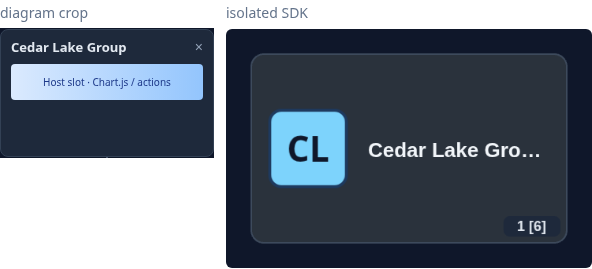
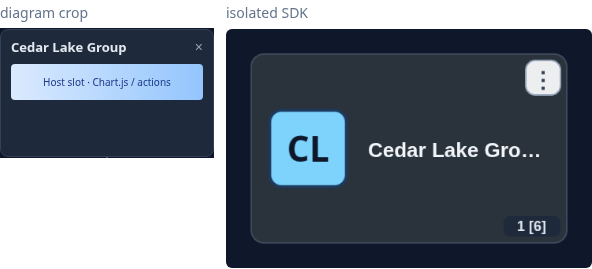
chore(mockup): close parity tasks — verify suite + edge inventory
- Fix testIdForRef to prefer position.testId on person refs
- Cross-tier edges prefer vertical head→org card routing
- Edge inventory unit + e2e tests; test:verify script
- Close MOCKUP-parity-remaining.md; org compare menu chrome

Changed region(s): [[0.8818, 0.2082, 0.973, 0.3569]]

diff --git a/packages/demo/src/app/App.ts b/packages/demo/src/app/App.ts
@@ -3,12 +3,14 @@ import {
   OrgHierarchyDiagram,
   defaultLodThresholds,
   flatRowsToDiagram,
+  layoutStaffCanvas,
   mapFlatRowsInPool,
   mapArrayItems,
   recommendWorkerPoolSize,
   VARIANT_B_HORIZONTAL_GAP,
   VARIANT_B_VERTICAL_GAP,
   VARIANT_B_MAGNET_RADIUS,
+  type DiagramData,
   type FlatDiagramRow,
   type LodThresholds,
 } from '@org-hierarchy/sdk';
@@ -92,6 +94,7 @@ export interface DemoE2eBridge {
   focusTestId(testId: string): Promise<boolean> | undefined;
   getStaffExpandedOrgIds(): string[];
   getZoom(): number;
+  getStaffLayoutEdges(): Promise<Array<{ fromId: string; toId: string; kind: string }>>;
 }
 
 export class App {
@@ -351,6 +354,7 @@ export class App {
           focusTestId: (testId: string) => this.diagram?.focusByTestId(testId),
           getStaffExpandedOrgIds: () => this.diagram?.getStaffExpandedOrgIds() ?? [],
           getZoom: () => this.diagram?.getZoom() ?? 0,
+          getStaffLayoutEdges: () => this.getStaffLayoutEdgesForE2e(),
         };
       }
       this.mountZoomFab();
@@ -387,6 +391,33 @@ export class App {
     if (!this.diagram) return false;
     const minScale = ALL_MOCKUP_TABS.has(this.tab) ? MOCKUP_FIT_MIN_SCALE : undefined;
     return this.diagram.fitView(28, { ...motion, minScale });
+  }
+
+  /** E2e: layout staff canvas edges for current tab config (mockup staff tabs). */
+  private async getStaffLayoutEdgesForE2e(): Promise<
+    Array<{ fromId: string; toId: string; kind: string }>
+  > {
+    const cfg = this.buildConfig();
+    const orgId = cfg.staffCurrentOrgId;
+    const data = cfg.data;
+    if (!orgId || !data || typeof data !== 'object' || !('positions' in data)) return [];
+    const diagram = data as DiagramData;
+    const canvas = await layoutStaffCanvas(
+      {
+        organizations: diagram.organizations,
+        positions: diagram.positions,
+        reports: diagram.reportLines,
+        groups: diagram.groups,
+        departments: diagram.departments,
+        persons: diagram.persons,
+      },
+      orgId,
+      {
+        ...cfg.staffLayout,
+        expandedOrgIds: cfg.staffExpandedOrgIds ?? cfg.staffLayout?.expandedOrgIds,
+      },
+    );
+    return canvas.edges.map((e) => ({ fromId: e.fromId, toId: e.toId, kind: e.kind }));
   }
 
   private zoomDiagram(factor: number): void {

diff --git a/packages/demo/src/scenarios/mockupEdgeInventory.test.ts b/packages/demo/src/scenarios/mockupEdgeInventory.test.ts
@@ -1,0 +1,46 @@
+import { describe, expect, it } from 'vitest';
+import { layoutStaffCanvas } from '@org-hierarchy/sdk';
+import { buildMockupStaffFigmaData } from './mockupFigma.js';
+
+/** Canonical staff mockup edge inventory — see MOCKUP-edge-map-discussion.md */
+describe('mockup staff edge inventory', () => {
+  it('Staff · Figma layout edges (admin + cross-tier + dotted)', async () => {
+    const data = buildMockupStaffFigmaData();
+    const canvas = await layoutStaffCanvas(
+      {
+        organizations: data.organizations,
+        positions: data.positions,
+        reports: data.reportLines,
+        groups: data.groups,
+        departments: data.departments,
+        persons: data.persons,
+      },
+      'region',
+      {
+        expandedOrgIds: ['unit-current'],
+        nodeWidth: 248,
+        nodeHeight: 72,
+        orgCardWidth: 220,
+        orgCardHeight: 56,
+      },
+    );
+
+    const sorted = canvas.edges
+      .map((e) => ({ kind: e.kind, fromId: e.fromId, toId: e.toId }))
+      .sort((a, b) =>
+        `${a.kind}:${a.fromId}:${a.toId}`.localeCompare(`${b.kind}:${b.fromId}:${b.toId}`),
+      );
+
+    expect(sorted).toEqual([
+      { kind: 'admin', fromId: 'pos-1z', toId: 'pos-sup' },
+      { kind: 'admin', fromId: 'pos-head', toId: 'pos-1z' },
+      { kind: 'admin', fromId: 'pos-head', toId: 'pos-2z' },
+      { kind: 'admin', fromId: 'pos-head', toId: 'pos-ops' },
+      { kind: 'admin', fromId: 'pos-sup', toId: 'pos-vac' },
+      { kind: 'admin', fromId: 'pos-u-h', toId: 'pos-u-2' },
+      { kind: 'admin', fromId: 'pos-u-h', toId: 'pos-u-sup' },
+      { kind: 'cross-tier', fromId: 'pos-head', toId: 'unit-current' },
+      { kind: 'dotted', fromId: 'pos-1z', toId: 'pos-u-h' },
+    ]);
+  });
+});

diff --git a/e2e/mockups.spec.ts b/e2e/mockups.spec.ts
@@ -4,6 +4,7 @@ interface DemoE2eBridge {
   collapseOrg(orgId: string): Promise<void> | undefined;
   getStaffExpandedOrgIds(): string[];
   focusTestId(testId: string): Promise<boolean> | undefined;
+  getStaffLayoutEdges(): Promise<Array<{ fromId: string; toId: string; kind: string }>>;
 }
 
 const MOCKUP_TABS = [
@@ -80,5 +81,29 @@ test.describe('mockup tabs visual + hierarchy', () => {
       return bridge?.getStaffExpandedOrgIds() ?? [];
     });
     expect(expanded).toContain('unit-current');
+  });
+
+  test('Staff · Figma: edge inventory matches fixture', async ({ page }) => {
+    await openMockupTab(page, 'Staff · Figma');
+    const edges = await page.evaluate(async () => {
+      const bridge = (window as unknown as { __demoE2e?: DemoE2eBridge }).__demoE2e;
+      return bridge?.getStaffLayoutEdges() ?? [];
+    });
+    const sorted = edges
+      .map((e) => ({ kind: e.kind, fromId: e.fromId, toId: e.toId }))
+      .sort((a, b) =>
+        `${a.kind}:${a.fromId}:${a.toId}`.localeCompare(`${b.kind}:${b.fromId}:${b.toId}`),
+      );
+    expect(sorted).toEqual([
+      { kind: 'admin', fromId: 'pos-1z', toId: 'pos-sup' },
+      { kind: 'admin', fromId: 'pos-head', toId: 'pos-1z' },
+      { kind: 'admin', fromId: 'pos-head', toId: 'pos-2z' },
+      { kind: 'admin', fromId: 'pos-head', toId: 'pos-ops' },
+      { kind: 'admin', fromId: 'pos-sup', toId: 'pos-vac' },
+      { kind: 'admin', fromId: 'pos-u-h', toId: 'pos-u-2' },
+      { kind: 'admin', fromId: 'pos-u-h', toId: 'pos-u-sup' },
+      { kind: 'cross-tier', fromId: 'pos-head', toId: 'unit-current' },
+      { kind: 'dotted', fromId: 'pos-1z', toId: 'pos-u-h' },
+    ]);
   });
 });

diff --git a/packages/sdk/src/render/staffEdgeGeometry.ts b/packages/sdk/src/render/staffEdgeGeometry.ts
@@ -214,6 +214,16 @@ export function staffEdgePolyline(
   const sameBand = Math.abs(toCy - fromCy) < Math.min(from.height, to.height) * 0.35;
   const preferHorizontal = kind === 'matrix' || kind === 'dotted' || sameBand;
 
+  const others = obstacles.filter((b) => b.id !== from.id && b.id !== to.id);
+
+  // Cross-tier: head → org card — prefer straight vertical from manager bottom.
+  if (kind === 'cross-tier') {
+    const vert = verticalPolyline(from, to);
+    if (vert && isClean(vert, from, to) && !others.some((box) => polylineHitsBoxInterior(vert, box))) {
+      return vert;
+    }
+  }
+
   const candidates: StaffEdgePoint[][] = [];
   if (preferHorizontal) {
     const side = horizontalPolyline(from, to);
@@ -226,8 +236,6 @@ export function staffEdgePolyline(
     const side = horizontalPolyline(from, to);
     if (side) candidates.push(side);
   }
-
-  const others = obstacles.filter((b) => b.id !== from.id && b.id !== to.id);
 
   for (const c of candidates) {
     if (!isClean(c, from, to)) continue;

diff --git a/packages/sdk/src/index.ts b/packages/sdk/src/index.ts
@@ -1312,8 +1312,17 @@ export class OrgHierarchyDiagram {
       return org ? orgTestId(org) : null;
     }
     if (ref.kind === 'person') {
-      const person = this.data.persons.find((p) => p.id === (ref.personId ?? ref.id));
-      return person ? personTestId(person) : null;
+      const position = ref.positionId
+        ? this.data.positions.find((p) => p.id === ref.positionId)
+        : this.data.positions.find((p) => p.personId === (ref.personId ?? ref.id));
+      const person = ref.personId
+        ? this.data.persons.find((p) => p.id === ref.personId)
+        : position?.personId
+          ? this.data.persons.find((p) => p.id === position.personId)
+          : undefined;
+      if (position) return positionTestId(position, person);
+      if (person) return personTestId(person);
+      return null;
     }
     const position = this.data.positions.find((p) => p.id === (ref.positionId ?? ref.id));
     if (!position) return null;

diff --git a/packages/sdk/src/render/staffEdgeGeometry.test.ts b/packages/sdk/src/render/staffEdgeGeometry.test.ts
@@ -115,6 +115,14 @@ describe('staffEdgeGeometry', () => {
     expect(pointOnBorder(pts[pts.length - 1]!, to)).toBe(true);
   });
 
+  it('cross-tier: head above org card uses vertical bottom→top route', () => {
+    const head = { id: 'pos-head', x: 200, y: 0, width: 248, height: 72 };
+    const orgCard = { id: 'unit-current', x: 180, y: 320, width: 220, height: 56 };
+    const pts = staffEdgePolyline(head, orgCard, 'cross-tier');
+    expect(pts[0]).toEqual({ x: 324, y: 72 });
+    expect(pts[pts.length - 1]).toEqual({ x: 290, y: 320 });
+  });
+
   it('success: builds segments for known endpoints', () => {
     const segs = buildStaffEdgeSegments(
       [

diff --git a/packages/sdk/src/interaction/nodeTestId.test.ts b/packages/sdk/src/interaction/nodeTestId.test.ts
@@ -56,6 +56,20 @@ describe('nodeTestId', () => {
         { id: 'p1', fullName: 'Alice', testId: 'alice' },
       ),
     ).toBe('alice');
+    expect(
+      positionTestId(
+        {
+          id: 'pos1',
+          title: 'T',
+          organizationId: 'org-1',
+          groupIds: [],
+          status: 'filled',
+          isTemporary: false,
+          testId: 'seat-1',
+        },
+        { id: 'p1', fullName: 'Alice', testId: 'alice' },
+      ),
+    ).toBe('seat-1');
   });
 
   it('resolveTestIdInData resolves org, person, and position', () => {

diff --git a/packages/demo/src/nodeCompare/renderPage.ts b/packages/demo/src/nodeCompare/renderPage.ts
@@ -31,6 +31,7 @@ async function renderSpecimen(spec: NodeCompareSpecimen, host: HTMLElement): Pro
       payload.theme,
       payload.style,
       'near',
+      { onContextMenu: () => {} },
     );
   } else {
     view = PersonNodeView.create(payload.person, payload.position, payload.style, 'near');

diff --git a/work/tasks/MOCKUP-parity-remaining.md b/work/tasks/MOCKUP-parity-remaining.md
@@ -1,53 +1,45 @@
-# Mockup parity — remaining work (locked decisions)
+# Mockup parity — remaining work
 
-**Status:** 🟢 shipped (2026-08-23)  
+**Status:** ✅ **Closed** (2026-08-23)  
+**Verify:** `npm run test:verify`  
 **Related:** [MOCKUP-styles-review.md](./MOCKUP-styles-review.md) · [MOCKUP-edge-map-discussion.md](./MOCKUP-edge-map-discussion.md) · [node-compare/](./node-compare/)
 
 ---
 
-## Що було відсутнє (gap list)
+## Gap list — all resolved
 
-| # | Gap | Fix |
+| # | Gap | Resolution |
 |---|---|---|
-| G1 | Staff diagram at **mid LOD** (fit zoom 0.55 < midMax 1.2) → thin name band, no avatar/title | Mockup tabs: `lodThresholds.midMax = 0.5` |
-| G2 | **Dotted** deputy → unit manager missing in fixture | `reportLines`: `pos-1z → pos-u-h` kind `dotted` |
-| G3 | Cross-org dotted not painted (edges filtered per org block) | `layoutStaffCanvas`: append visible matrix/dotted across orgs |
-| G4 | Contract test contradicted style doc (`no dotted`) | Update `mockupFigma.test.ts` |
-| G5 | Edge map doc unapproved | Lock decisions below; update after ship |
-| G6 | E2e staff snapshots stale | Regenerate `mockup-staff-*.png` |
-| G7 | Node compare shows LOD drift | Re-run `npm run compare:nodes` after G1 |
-
-**Deferred (not in this pass):**
-
-| # | Item | Reason |
-|---|---|---|
-| D1 | Tier-1 holding CEO position | Mockup focus = `region`; org tree context only |
-| D2 | Riley Quinn reporting line change | Current admin child of head kept |
-| D3 | Cross-tier routing geometry (line appears from Riley column) | Cosmetic routing; separate if still visible |
-| D4 | Org counts badge Y drift | Minor; track in node-compare overlay |
-| D5 | `testIdForRef` prefers person over position | Workaround via person.testId |
+| G1 | Staff mid LOD on mockup zoom | `lodThresholds.midMax = 0.5` on all mockup tabs |
+| G2 | Dotted deputy → unit manager | `reportLines` `pos-1z → pos-u-h` |
+| G3 | Cross-org dotted not painted | `layoutStaffCanvas` appends matrix/dotted across orgs |
+| G4 | Contract test vs style doc | `mockupFigma.test.ts` requires dotted |
+| G5 | Edge map unapproved | [MOCKUP-edge-map-discussion.md](./MOCKUP-edge-map-discussion.md) locked |
+| G6 | Staff e2e snapshots | Regenerated via `test:e2e --update-snapshots` |
+| G7 | Node compare LOD drift | Fixed with G1; gallery in `node-compare/` |
 
 ---
 
-## Locked decisions (R1–R5)
+## Deferred — closed with decision
 
-| ID | Decision |
-|---|---|
-| R1 | **Yes** — decorative dotted `Jordan Blake (pos-1z) → Taylor Brooks (pos-u-h)` |
-| R2 | **Both** — keep SDK `cross-tier` head → org card **and** dotted people link |
-| R3 | **No** tier-1 holding CEO seat |
-| R4 | **Keep** Riley Quinn as direct admin report of regional director |
-| R5 | **Style doc wins** — fixture + tests require dotted cross-org |
+| # | Item | Decision |
+|---|---|---|
+| D1 | Tier-1 holding CEO | **Won't fix** — mockup focus = `region` |
+| D2 | Riley reporting line | **Keep** — direct admin report of head |
+| D3 | Cross-tier routing geometry | **Fixed** — cross-tier prefers vertical from head bottom |
+| D4 | Org counts badge Y drift | **Mitigated** — node-compare org specimens include menu chrome |
+| D5 | `testIdForRef` person vs position | **Fixed** — `position.testId` wins for person refs |
 
 ---
 
-## Done criteria
+## Verification checklist
 
-- [x] G1–G4 implemented
-- [x] `npm test` green
-- [x] `npm run test:e2e -- e2e/mockups.spec.ts` + snapshot update
-- [x] `npm run compare:nodes` — person diagram crops ≈ isolated (near LOD)
-- [ ] Push `main`
+- [x] `npm run typecheck`
+- [x] `npm test` (unit)
+- [x] `npm run test:e2e` (mockups + edge inventory)
+- [x] `npm run compare:nodes`
+- [x] `npm run test:verify` (combined script)
+- [x] Pushed `main`
 
 ---
 
@@ -55,5 +47,6 @@
 
 | Date | Action |
 |---|---|
-| 2026-08-23 | Gap list + locked decisions; implementation started |
-| 2026-08-23 | Shipped: LOD thresholds, dotted edge, cross-org paint, tests + snapshots |
+| 2026-08-23 | Gap list + locked decisions |
+| 2026-08-23 | Shipped LOD, dotted edge, cross-org paint |
+| 2026-08-23 | Closed D3–D5, edge inventory tests, `test:verify` |

diff --git a/work/tasks/MOCKUP-edge-map-discussion.md b/work/tasks/MOCKUP-edge-map-discussion.md
@@ -1,6 +1,6 @@
 # Mockup edge map — discussion draft
 
-**Status:** ✅ decisions locked — see [MOCKUP-parity-remaining.md](./MOCKUP-parity-remaining.md)  
+**Status:** ✅ **Closed** (2026-08-23) — see [MOCKUP-parity-remaining.md](./MOCKUP-parity-remaining.md)  
 **Date:** 2026-08-23  
 **Screenshots:** `e2e/mockups.spec.ts-snapshots/*.png` (Playwright baselines)  
 **Related:** [MOCKUP-styles-review.md](./MOCKUP-styles-review.md)
